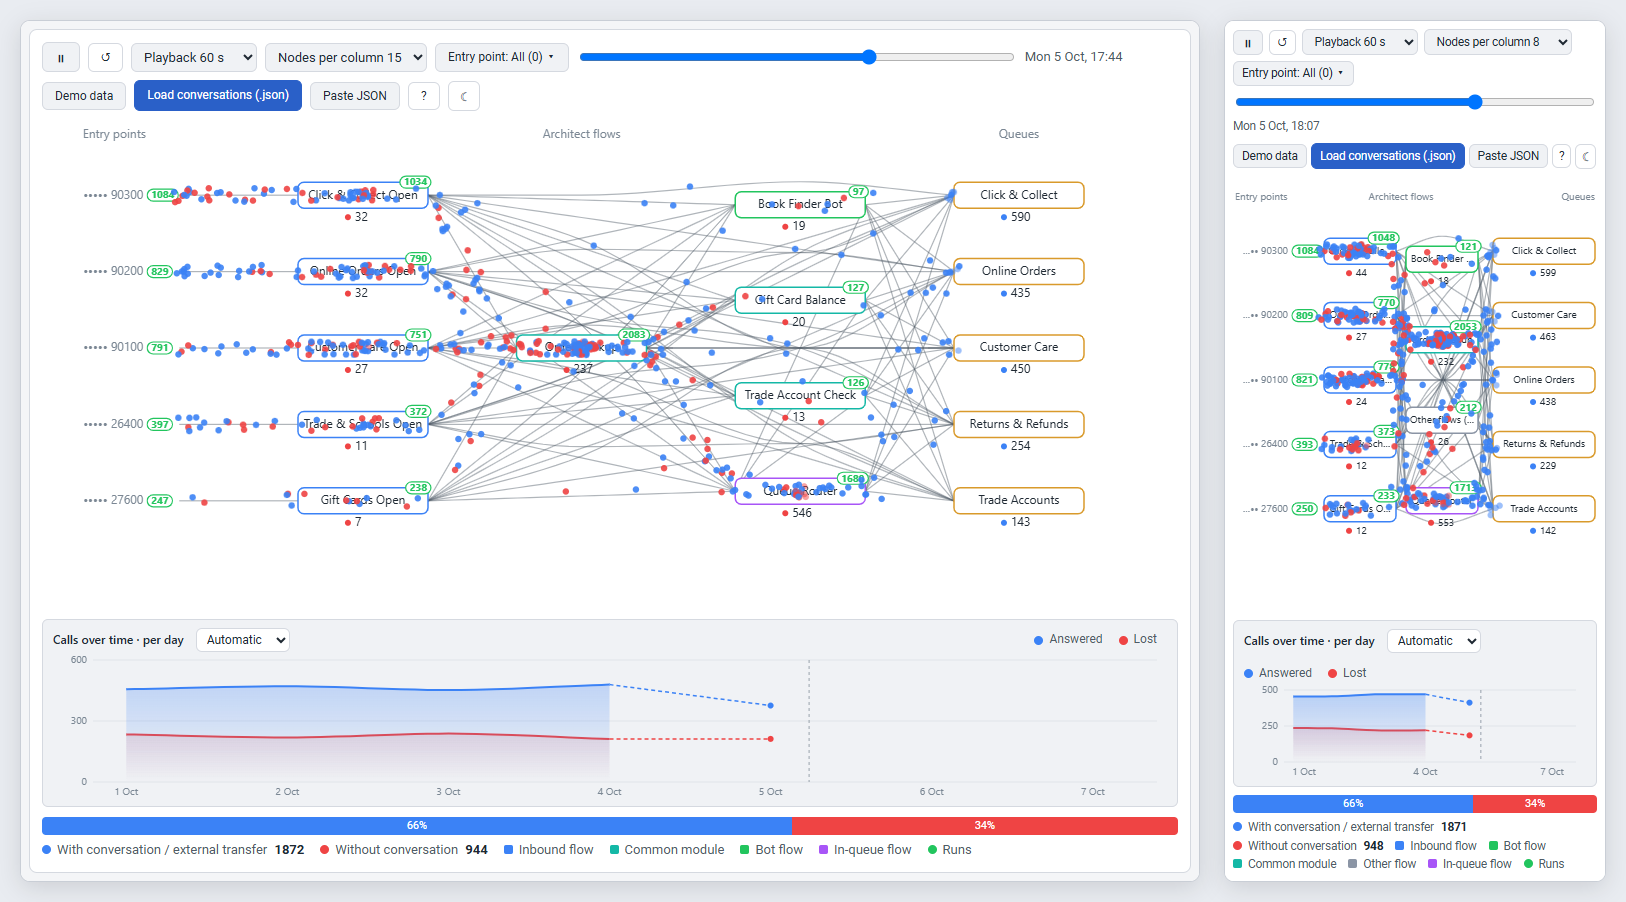
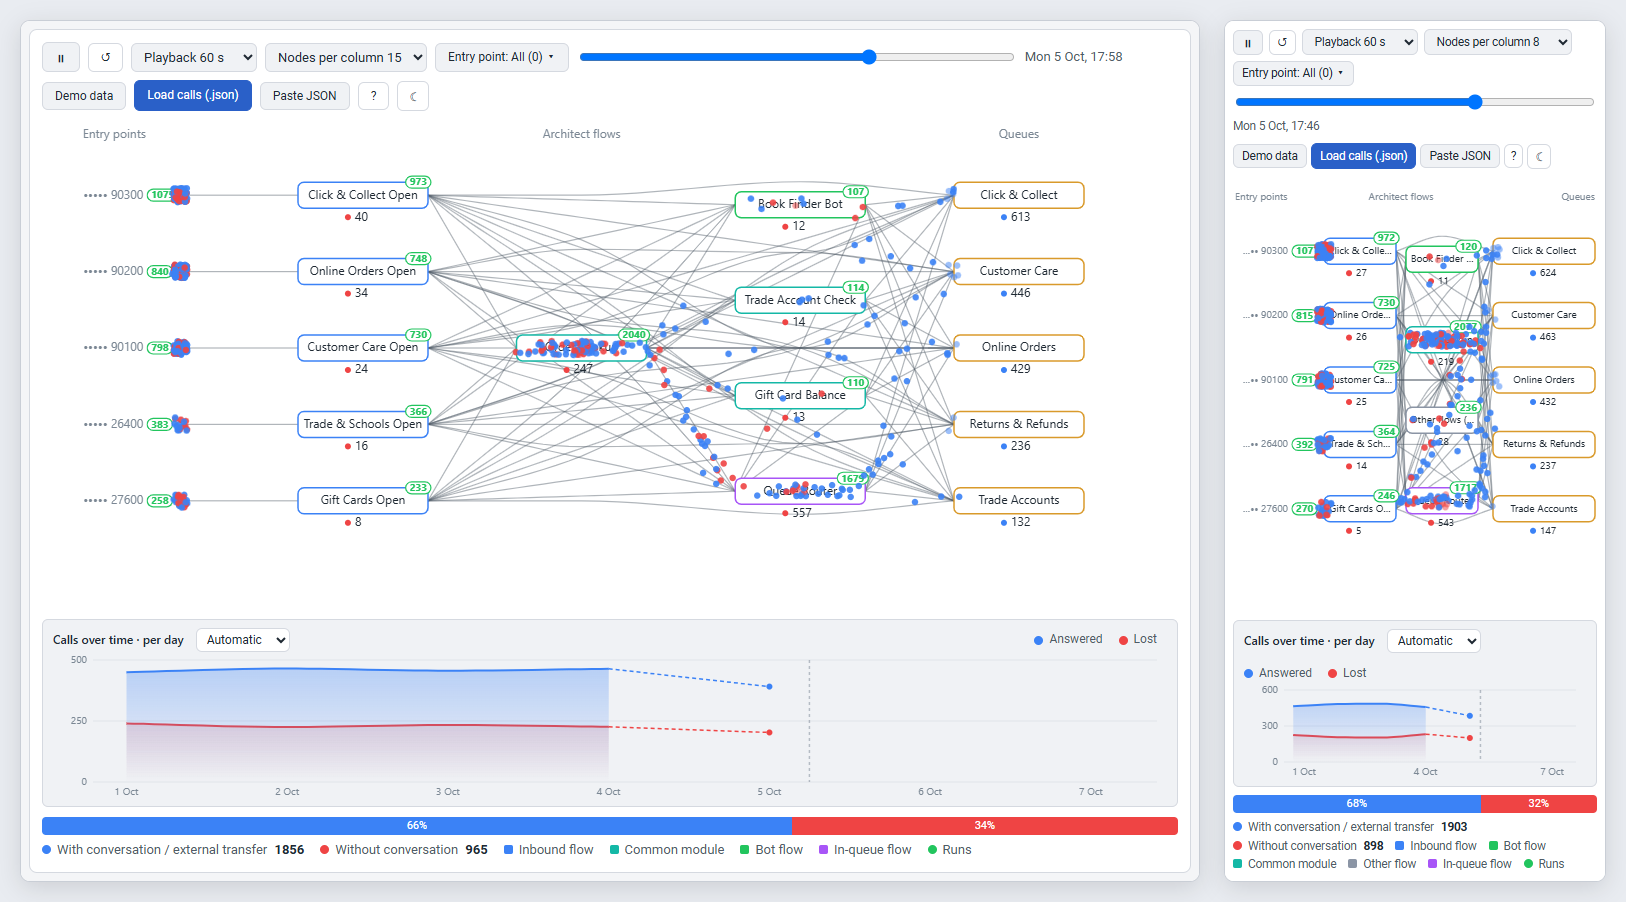
README: dark theme screenshots; fixed-width theme button; shorter English load button
The screenshot script now takes light and dark pictures (THEME=light|dark for one)
and starts a fresh browser per shot, since a second replay in the same browser stalled.

diff --git a/js/i18n.js b/js/i18n.js
@@ -193,7 +193,7 @@ export const I18N = {
   "trafficHelpTitle": "How to get data from Genesys",
   "trafficThemeDark": "Switch to dark theme",
   "trafficThemeLight": "Switch to light theme",
-  "trafficHelpBody": "<h4>How to get conversation data from Genesys Cloud</h4>\nUse the <b>Analytics &rarr; Conversation details (async job)</b> API. Easiest is the <a href=\"https://developer.genesys.cloud/devapps/api-explorer#post-api-v2-analytics-conversations-details-jobs\" target=\"_blank\" rel=\"noopener\">API Explorer</a> on <a href=\"https://developer.genesys.cloud/\" target=\"_blank\" rel=\"noopener\">developer.genesys.cloud</a> (sign in, pick your region). Requires the permission <code>analytics:conversationDetail:view</code>.\n<ol>\n<li><code>POST /api/v2/analytics/conversations/details/jobs</code> with a body like:\n<pre>{\n  \"interval\": \"2026-10-01T00:00:00.000Z/2026-10-08T00:00:00.000Z\",\n  \"segmentFilters\": [{ \"type\": \"and\", \"predicates\": [\n    { \"type\": \"dimension\", \"dimension\": \"mediaType\", \"value\": \"voice\" },\n    { \"type\": \"dimension\", \"dimension\": \"originatingDirection\", \"value\": \"inbound\" } ] }]\n}</pre>The interval can be at most 31 days. Only inbound voice calls are included. The response contains a <code>jobId</code>.</li>\n<li><code>GET /api/v2/analytics/conversations/details/jobs/{jobId}</code> until <code>state</code> is <code>FULFILLED</code>.</li>\n<li><code>GET /api/v2/analytics/conversations/details/jobs/{jobId}/results?pageSize=1000</code> &mdash; repeat with <code>&amp;cursor=&hellip;</code> while a cursor is returned.</li>\n<li>Copy the response from API Explorer: either save it as a <code>.json</code> file and load it with <b>Load conversations</b>, or use <b>Paste JSON</b>. With several pages you do not need to merge anything yourself: select or drop all the files at once, or paste them one by one with <b>Add page</b>. Duplicates are removed automatically.</li>\n</ol>\nTip: <b>Live data</b> does all of this automatically after signing in with Genesys (OAuth PKCE).",
+  "trafficHelpBody": "<h4>How to get conversation data from Genesys Cloud</h4>\nUse the <b>Analytics &rarr; Conversation details (async job)</b> API. Easiest is the <a href=\"https://developer.genesys.cloud/devapps/api-explorer#post-api-v2-analytics-conversations-details-jobs\" target=\"_blank\" rel=\"noopener\">API Explorer</a> on <a href=\"https://developer.genesys.cloud/\" target=\"_blank\" rel=\"noopener\">developer.genesys.cloud</a> (sign in, pick your region). Requires the permission <code>analytics:conversationDetail:view</code>.\n<ol>\n<li><code>POST /api/v2/analytics/conversations/details/jobs</code> with a body like:\n<pre>{\n  \"interval\": \"2026-10-01T00:00:00.000Z/2026-10-08T00:00:00.000Z\",\n  \"segmentFilters\": [{ \"type\": \"and\", \"predicates\": [\n    { \"type\": \"dimension\", \"dimension\": \"mediaType\", \"value\": \"voice\" },\n    { \"type\": \"dimension\", \"dimension\": \"originatingDirection\", \"value\": \"inbound\" } ] }]\n}</pre>The interval can be at most 31 days. Only inbound voice calls are included. The response contains a <code>jobId</code>.</li>\n<li><code>GET /api/v2/analytics/conversations/details/jobs/{jobId}</code> until <code>state</code> is <code>FULFILLED</code>.</li>\n<li><code>GET /api/v2/analytics/conversations/details/jobs/{jobId}/results?pageSize=1000</code> &mdash; repeat with <code>&amp;cursor=&hellip;</code> while a cursor is returned.</li>\n<li>Copy the response from API Explorer: either save it as a <code>.json</code> file and load it with <b>Load calls</b>, or use <b>Paste JSON</b>. With several pages you do not need to merge anything yourself: select or drop all the files at once, or paste them one by one with <b>Add page</b>. Duplicates are removed automatically.</li>\n</ol>\nTip: <b>Live data</b> does all of this automatically after signing in with Genesys (OAuth PKCE).",
   "trafficNoConvs": "No completed conversations in the period (Genesys lags a few minutes on recent conversations)",
   "trafficP_hour": "Last hour",
   "trafficP_yesterday": "Yesterday",
@@ -212,7 +212,7 @@ export const I18N = {
   "trafficLiveFailed": "Could not fetch live data",
   "trafficNoPerm": "Your user lacks the analytics:conversationDetail:view permission",
   "trafficDemo": "Demo data",
-  "trafficLoad": "Load conversations (.json)",
+  "trafficLoad": "Load calls (.json)",
   "trafficNoData": "Load a conversation details export, or try the demo data",
   "trafficBadFile": "Could not read conversation data",
   "trafficWithConv": "With conversation / external transfer",

diff --git a/css/base.css b/css/base.css
@@ -67,7 +67,10 @@ button:disabled { opacity: .55; cursor: default; }
 .tr-narrow .tr-row { gap: 6px; }
 .tr-narrow .tr-bar select, .tr-narrow .btn { padding: 4px 8px; font-size: 11.5px; }
 .tr-narrow .tr-row + .tr-row { column-gap: 4px; }   /* room for ? and the theme button next to the load buttons */
-.tr-narrow [data-tr="help"], .tr-narrow [data-tr="theme"] { padding: 4px 6px; }
+.tr-narrow [data-tr="help"] { padding: 4px 6px; }
+/* Fixed width, so the button does not grow when ☾ turns into the wider ☀ */
+[data-tr="theme"] { width: 32px; padding-left: 0; padding-right: 0; }
+.tr-narrow [data-tr="theme"] { width: 24px; padding: 4px 0; }
 .tr-narrow .tr-bar input[type=range] { order: 10; flex-basis: 100%; }
 .tr-narrow .tr-clock { order: 11; min-width: 0; font-size: 11.5px; }
 .tr-narrow .tr-who { order: 12; flex-basis: 100%; max-width: none; }

diff --git a/README.md b/README.md
@@ -7,6 +7,10 @@ Calls are replayed as dots flowing *entry point → Architect flow → queue*. B
 
 ![The Traffic widget with demo data: wide layout on the left, narrow side panel on the right](docs/traffic-widget.png)
 
+The same in the dark theme:
+
+![The Traffic widget in the dark theme](docs/traffic-widget-dark.png)
+
 The widget signs in with **the Genesys org it is shown in** and **the user who is signed in**. There is no server, no client secret and no customer list. The token only has the user's own permissions.
 
 ## How sign-in works
@@ -69,13 +73,13 @@ Open `http://localhost:8080/?demo`. Sign-in can only really be tested from an HT
 npm test
 ```
 
-The README screenshots (`docs/traffic-widget.png` in English and `docs/traffic-widget-da.png` in Danish) can be retaken after changes:
+The README screenshots (`docs/traffic-widget.png` in English and `docs/traffic-widget-da.png` in Danish, each with a `-dark` version) can be retaken after changes:
 
 ```bash
 npm run screenshot
 ```
 
-The script (`tools/screenshot.mjs`) starts its own small server and a local Edge or Chrome in headless mode. Both layouts are shown side by side, part-way through the demo data replay. If the browser cannot be found, set `BROWSER=<path to msedge/chrome>`. `LANG_TAG=en` takes the English picture only.
+The script (`tools/screenshot.mjs`) starts its own small server and a local Edge or Chrome in headless mode. Both layouts are shown side by side, part-way through the demo data replay. If the browser cannot be found, set `BROWSER=<path to msedge/chrome>`. `LANG_TAG=en` takes the English pictures only, and `THEME=light` or `THEME=dark` one theme only.
 
 ## How the widget behaves
 

diff --git a/README.da.md b/README.da.md
@@ -7,6 +7,10 @@ Opkald afspilles som prikker, der løber *indgangspunkt → Architect-flow → k
 
 ![Traffic-widget'en med demodata: bredt layout til venstre, smalt sidepanel til højre](docs/traffic-widget-da.png)
 
+Det samme i mørkt tema:
+
+![Traffic-widget'en i mørkt tema](docs/traffic-widget-da-dark.png)
+
 Widget'en logger ind med **den Genesys-org, den bliver vist i**, og med **den bruger, der er logget ind**. Der er ingen server, ingen client secret og ingen kundeliste. Tokenet har kun brugerens egne rettigheder.
 
 ## Sådan virker login
@@ -69,13 +73,13 @@ npm start
 npm test
 ```
 
-Skærmbillederne i README'erne (`docs/traffic-widget.png` på engelsk og `docs/traffic-widget-da.png` på dansk) kan tages igen efter ændringer:
+Skærmbillederne i README'erne (`docs/traffic-widget.png` på engelsk og `docs/traffic-widget-da.png` på dansk, hver med en `-dark`-udgave) kan tages igen efter ændringer:
 
 ```bash
 npm run screenshot
 ```
 
-Scriptet (`tools/screenshot.mjs`) starter sin egen lille server og en lokal Edge eller Chrome i headless-tilstand. Begge layouts vises side om side, midt i afspilningen af demodata. Kan browseren ikke findes, sætter du `BROWSER=<sti til msedge/chrome>`. `LANG_TAG=da` tager kun det danske billede.
+Scriptet (`tools/screenshot.mjs`) starter sin egen lille server og en lokal Edge eller Chrome i headless-tilstand. Begge layouts vises side om side, midt i afspilningen af demodata. Kan browseren ikke findes, sætter du `BROWSER=<sti til msedge/chrome>`. `LANG_TAG=da` tager kun de danske billeder, og `THEME=light` eller `THEME=dark` kun ét tema.
 
 ## Sådan opfører widget'en sig
 
